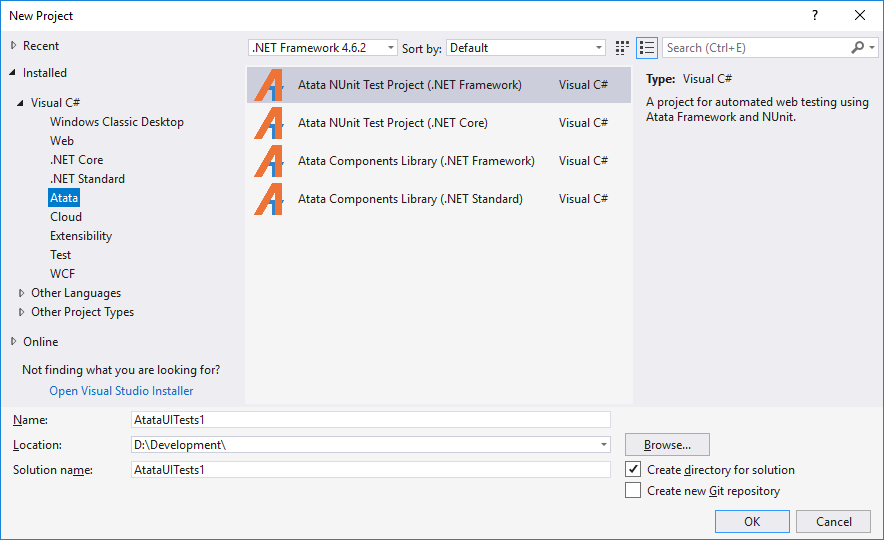
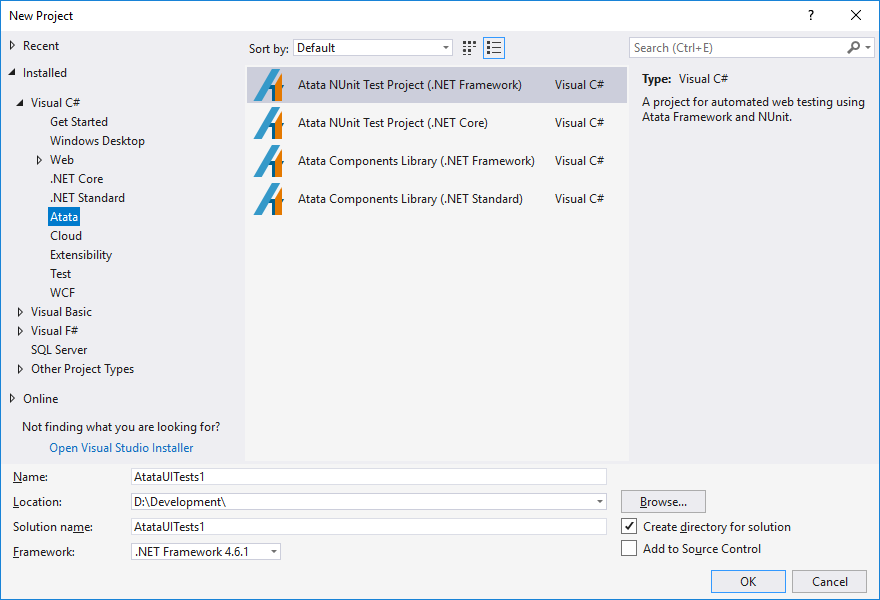
Update Atata Templates image

diff --git a/getting-started/installation/via-atata-templates.md b/getting-started/installation/via-atata-templates.md
@@ -21,7 +21,7 @@ When extension is installed, you can create a project of one of Atata project ty
 1. Select **Installed/Visual C#/Atata** category
 1. Choose template (e.g.: **Atata NUnit Test Project (.NET Framework)**) and specify project name and location
 
-![Atata Templates project](/assets/images/atata-templates/new-project-window.png)
+![Atata Templates project](/assets/images/atata-templates/new-project-window.png?v2)
 
 The project is created with NuGet package references:
 
